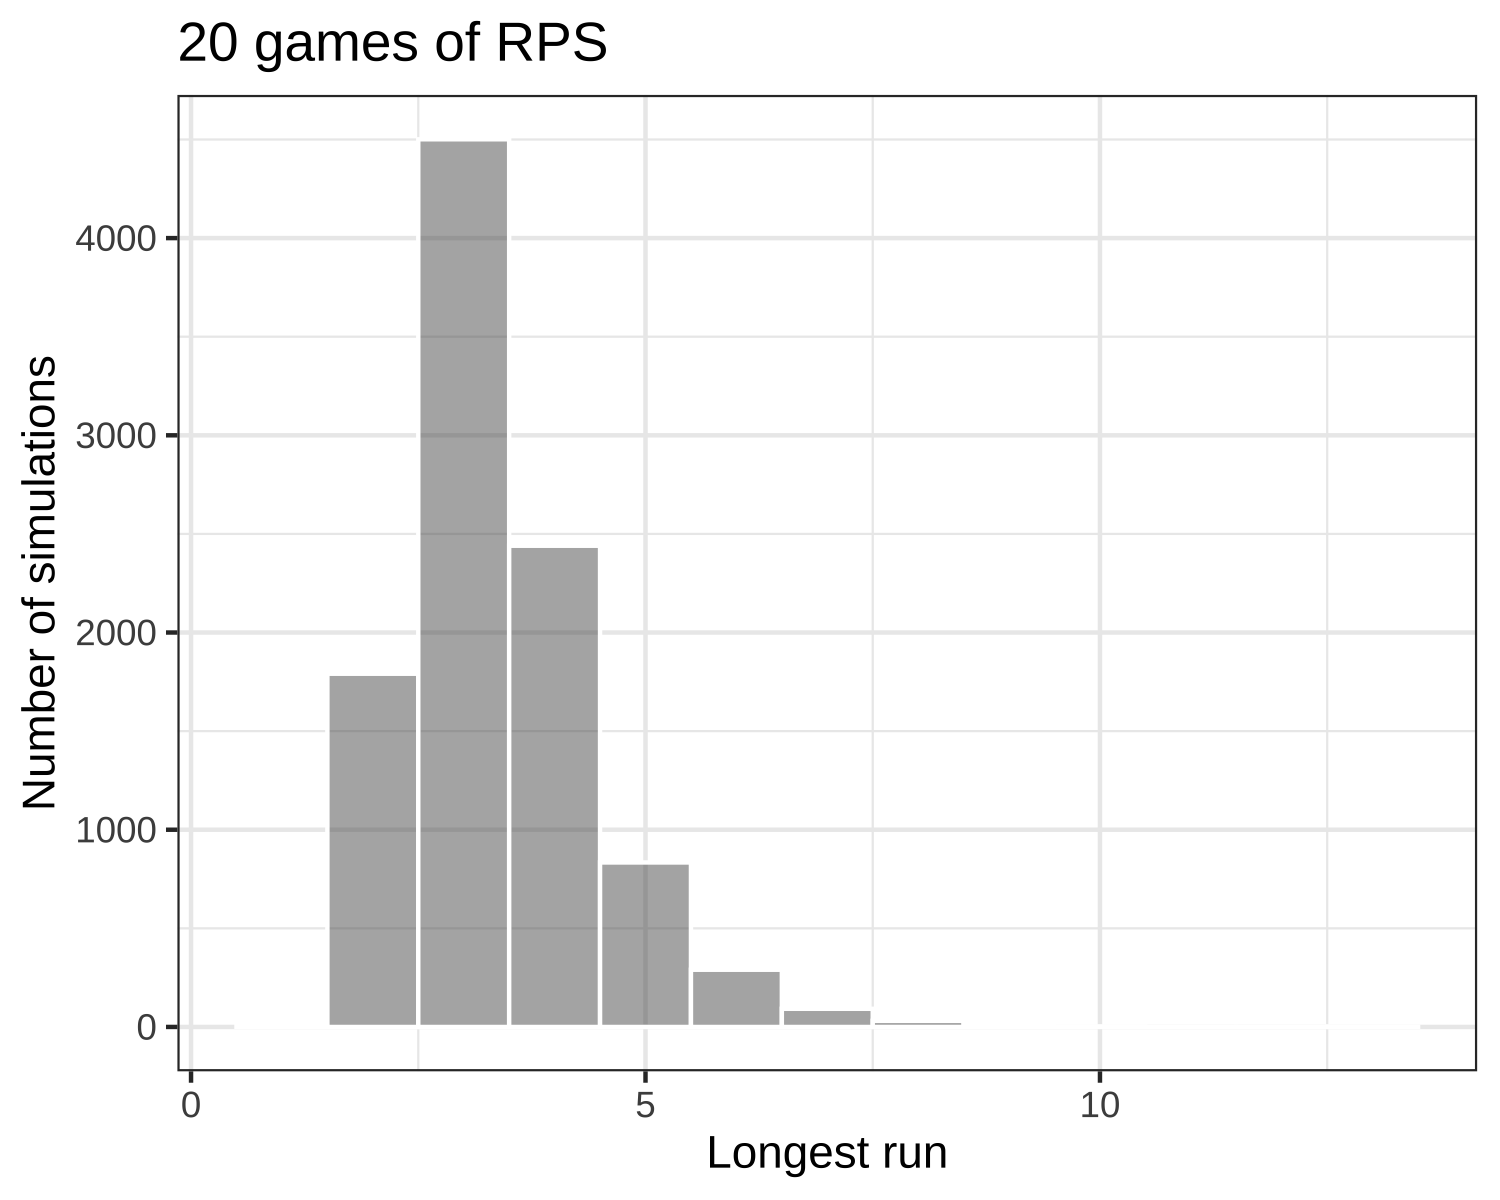
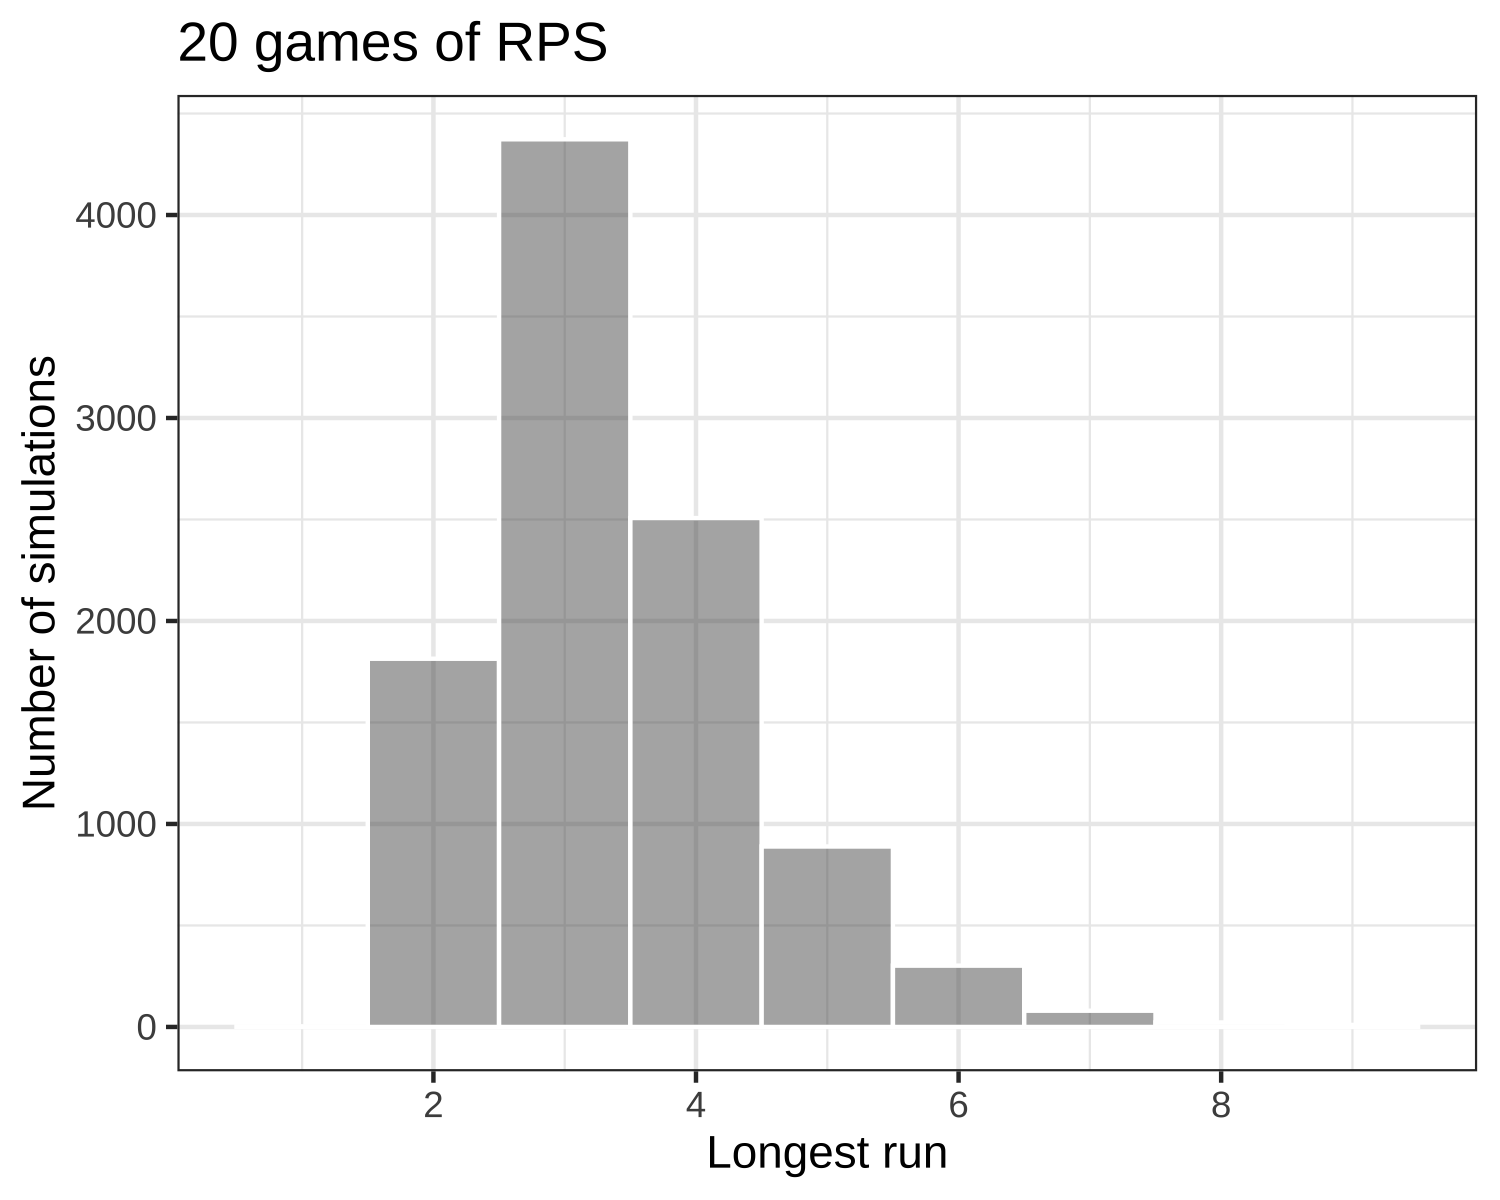
Add files via upload

diff --git a/docs/01-Introduction_R/01-Introduction_R.html b/docs/01-Introduction_R/01-Introduction_R.html
@@ -131,7 +131,7 @@ rps
 ```
 
 ```
-##  [1] "S" "R" "S" "R" "S" "P" "S" "S" "R" "R" "R" "R" "R" "P" "P" "S" "S" "P" "S"
+##  [1] "R" "P" "P" "S" "P" "S" "R" "R" "S" "P" "P" "R" "P" "R" "S" "S" "S" "P" "P"
 ## [20] "P"
 ```
 ]
@@ -236,11 +236,12 @@ I need **two volunteers**!
 .details[
 
 ```r
+set.seed(338)
 sample(0:1, size = 20, replace = TRUE)
 ```
 
 ```
-##  [1] 0 0 0 1 0 1 0 0 1 1 0 0 0 1 0 1 0 0 1 1
+##  [1] 1 1 1 0 1 0 1 0 1 1 0 0 0 0 1 0 0 1 1 1
 ```
 ]
 
